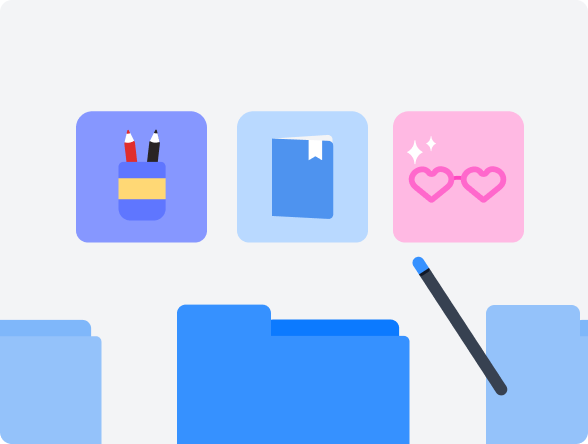
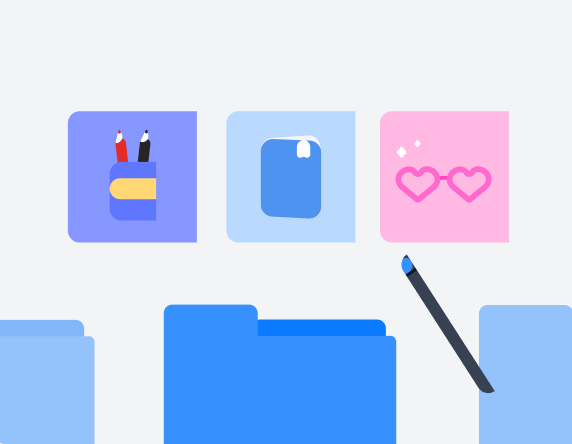
페이지 소개내용이 담긴 section-item 부분 생성

diff --git a/style.css b/style.css
@@ -1,98 +1,166 @@
 * {
-    margin: 0;
-    padding: 0;
-    box-sizing: border-box;
+  margin: 0;
+  padding: 0;
+  box-sizing: border-box;
 }
 
-html, body {
-    font-family: Pretendard;
-    width: 100%;
+html,
+body {
+  font-family: Pretendard;
+  width: 100%;
 }
 
 .center-basic {
-    display: flex;
-    justify-content: center;
+  display: flex;
+  justify-content: center;
 }
 
 header {
-    background-color: #ffffff;
+  background-color: #ffffff;
 }
 
 .header-bar {
-    width: 1120px;
-    display: flex;
-    justify-content: space-between;
-    align-items: center;
+  width: 1120px;
+  display: flex;
+  justify-content: space-between;
+  align-items: center;
 }
 
 .header-bar .title {
-    width: 153px;
-    height: 51px;
+  width: 153px;
+  height: 51px;
 }
 
 .header-bar .login {
-    width: 128px;
-    height: 48px;
-    background-color: #3692ff;
-    padding: 12px 23px;
-    border-radius: 8px;
-    color: #f2f4f6;
-    display: flex;
-    justify-content: center;
-    cursor: pointer;
+  width: 128px;
+  height: 48px;
+  background-color: #3692ff;
+  padding: 12px 23px;
+  border-radius: 8px;
+  color: #f2f4f6;
+  display: flex;
+  justify-content: center;
+  cursor: pointer;
 }
 
 .header-bar .login a {
-    text-decoration: none;
-    color: #f2f4f6;
+  text-decoration: none;
+  color: #f2f4f6;
 }
 
+/* section-look */
 .section-look {
-    align-items: flex-end;
-    background-color: #cfe5ff;
-    height: 540px;
+  align-items: flex-end;
+  background-color: #cfe5ff;
+  height: 540px;
 }
 
 .section-look h2 {
-    font-weight: 700;
-    font-style: bold;
-    font-size: 40px;
-    line-height: 140%;
-    letter-spacing: 0%;
-    vertical-align: middle;
-    color: #374151;
+  font-weight: 700;
+  font-style: bold;
+  font-size: 40px;
+  line-height: 140%;
+  letter-spacing: 0%;
+  vertical-align: middle;
+  color: #374151;
 }
 
 .section-look-contents {
-    width: 1110px;
-    display: flex;
-    justify-content: space-between;
-    align-items: center;
+  width: 1110px;
+  display: flex;
+  justify-content: space-between;
+  align-items: center;
 }
 
 .section-look-content {
-    display: flex;
-    flex-direction: column;
-    align-items: flex-start;
-    gap: 10px;
+  display: flex;
+  flex-direction: column;
+  align-items: flex-start;
+  gap: 10px;
 }
 
 .look-button {
-    background-color: #3692ff;
-    padding: 16px 124px;
-    border-radius: 40px;
-    margin: 20px 0;
+  background-color: #3692ff;
+  padding: 16px 124px;
+  border-radius: 40px;
+  margin: 20px 0;
 }
 
 .look-button a {
-    text-decoration: none;
-    color: #f9fafb;
-    font-weight: 600;
-    font-size: 20px;
-    line-height: 32px;
+  text-decoration: none;
+  color: #f9fafb;
+  font-weight: 600;
+  font-size: 20px;
+  line-height: 32px;
 }
 
 .section-look img {
-    width: 746px;
-    height: 340px;
+  width: 746px;
+  height: 340px;
+}
+
+/* section-item */
+.section-items {
+  align-items: center;
+  height: 720px;
+}
+
+.section-item {
+  display: flex;
+  align-items: center;
+  gap: 64px;
+  padding: 0 14px 0 23.5px;
+  width: 988px;
+  height: 444px;
+  background-color: #fcfcfc;
+  border-radius: 12px;
+}
+
+.reverse-item {
+  display: flex;
+  justify-content: space-between;
+  align-items: center;
+  padding: 0 14px;
+  width: 988px;
+  height: 444px;
+  background-color: #fcfcfc;
+  border-radius: 12px;
+}
+
+.reverse-intro {
+  text-align: right;
+}
+
+.section-item img {
+  width: 579px;
+  height: 444px;
+}
+
+.intro-text .hot {
+  color: #3692ff;
+  font-weight: 800;
+  font-size: 18px;
+  line-height: 26px;
+  padding-bottom: 12px;
+}
+
+.intro-text h2 {
+  color: #374151;
+  font-weight: 700;
+  font-style: bold;
+  font-size: 40px;
+  line-height: 140%;
+  padding-bottom: 24px;
+}
+
+.intro-text .explan {
+  color: #374151;
+  font-weight: 500;
+  font-style: medium;
+  font-size: 24px;
+  line-height: 32px;
+}
+
+.last-item {
+  margin-bottom: 138px;
 }

diff --git a/index.html b/index.html
@@ -7,30 +7,61 @@
   </head>
   <body>
     <header class="center-basic">
-        <div class="header-bar">
+      <div class="header-bar">
         <a href="/">
-            <img class="title" src="img/img/Logo/Property 1=md.png" alt="">
+          <img class="title" src="img/img/Logo/Property 1=md.png" alt="" />
         </a>
         <div class="login">
-        <a href="/login">로그인</a>
+          <a href="/login">로그인</a>
         </div>
-        </div>
+      </div>
     </header>
     <section class="section-look center-basic">
-        <div class="section-look-contents">
+      <div class="section-look-contents">
         <div class="section-look-content">
-        <h2>일상의 모든 물건을<br>거래해 보세요</h2>
-        <div class="look-button">
+          <h2>일상의 모든 물건을<br />거래해 보세요</h2>
+          <div class="look-button">
             <a href="/items">구경하러 가기</a>
+          </div>
         </div>
-        </div>
-        <img src="img/img/Landing page/Img_home_top.png">
-        </div>
+        <img src="img/img/Landing page/Img_home_top.png" />
+      </div>
     </section>
-    <section class="center-basic">
-      <section></section>
-      <section></section>
-      <section></section>
+    <section class="section-items center-basic">
+      <div class="section-item">
+        <img src="img/img/Landing page/Img_home_01.png" />
+        <div class="intro-text">
+          <p class="hot">Hot item</p>
+          <h2>인기 상품을<br />확인해 보세요</h2>
+          <p class="explan">
+            가장 HOT한 중고거래 물품을<br />판다 마켓에서 확인해 보세요
+          </p>
+        </div>
+      </div>
+    </section>
+    <section class="section-items center-basic">
+      <div class="reverse-item">
+        <div class="intro-text reverse-intro">
+          <p class="hot">Search</p>
+          <h2>구매를 원하는<br />상품을 검색하세요</h2>
+          <p class="explan">
+            구매하고 싶은 물품은 검색해서<br />쉽게 찾아보세요
+          </p>
+        </div>
+        <img src="img/img/Landing page/Img_home_02.png" />
+      </div>
+    </section>
+    <section class="section-items center-basic last-item">
+      <div class="section-item">
+        <img src="img/img/Landing page/Img_home_03.png" />
+        <div class="intro-text">
+          <p class="hot">Register</p>
+          <h2>판매를 원하는<br />상품을 등록하세요</h2>
+          <p class="explan">
+            가장 HOT한 중고거래 물품을<br />판다 마켓에서 확인해 보세요
+          </p>
+        </div>
+      </div>
     </section>
     <section class="center-basic"></section>
     <footer class="center-basic"></footer>
